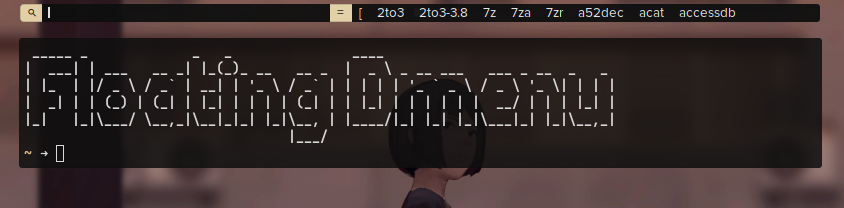
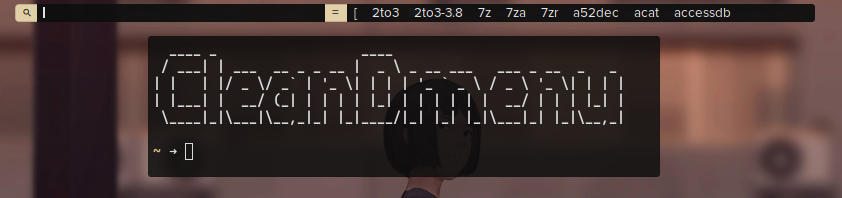
Cleaner design

diff --git a/dmenu.c b/dmenu.c
@@ -207,10 +207,10 @@ drawmenu(void)
 	} else if (matches) {
 		/* draw horizontal list */
 		x += inputw;
-		w = TEXTW("<");
+		w = TEXTW("");
 		if (curr->left) {
 			drw_setscheme(drw, scheme[SchemeNorm]);
-			drw_text(drw, x, 0, w, bh, lrpad / 2, "<", 0);
+			drw_text(drw, x, 0, w, bh, lrpad / 2, "", 0);
 		}
 		x += w;
 		for (item = curr; item != next; item = item->right)
